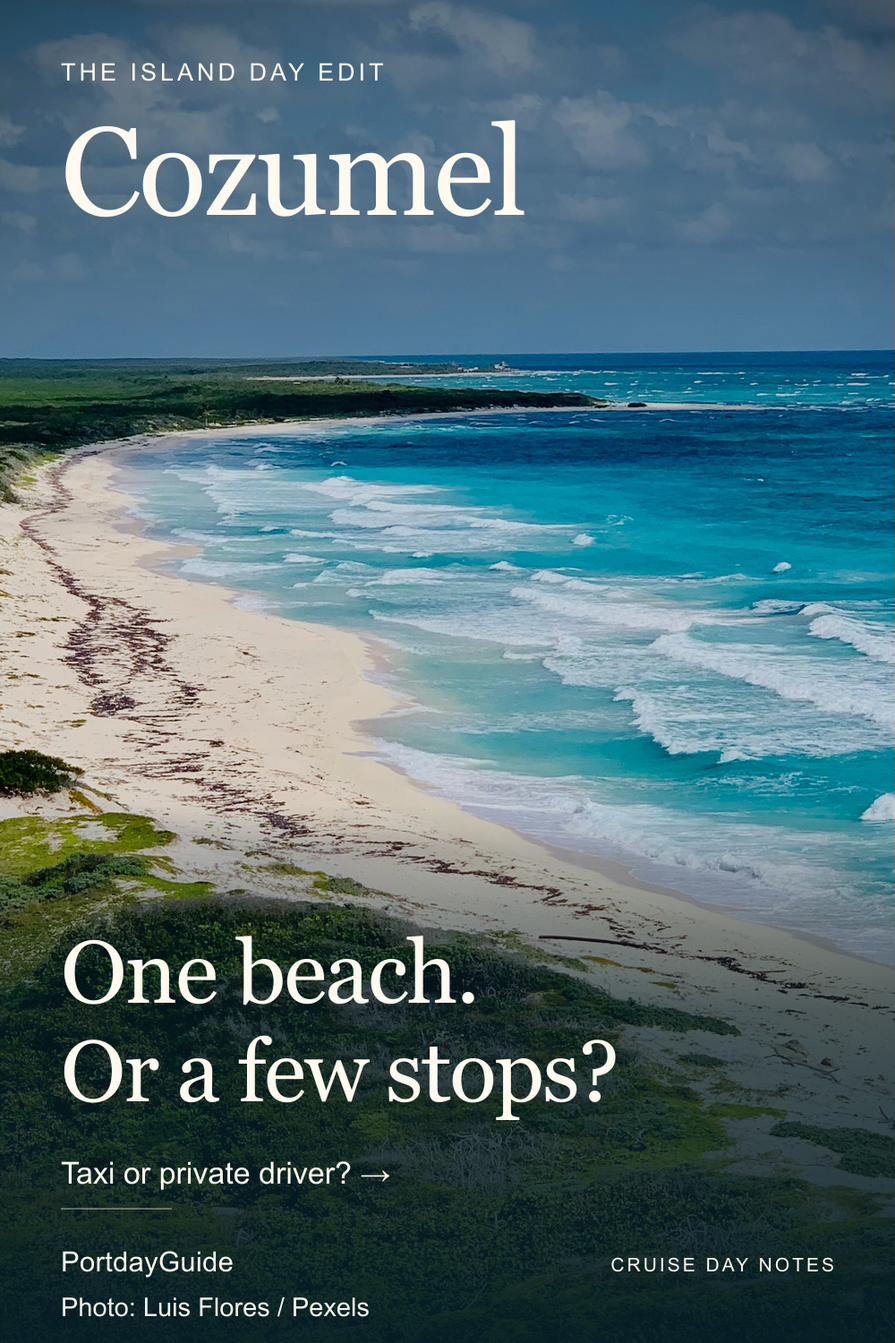
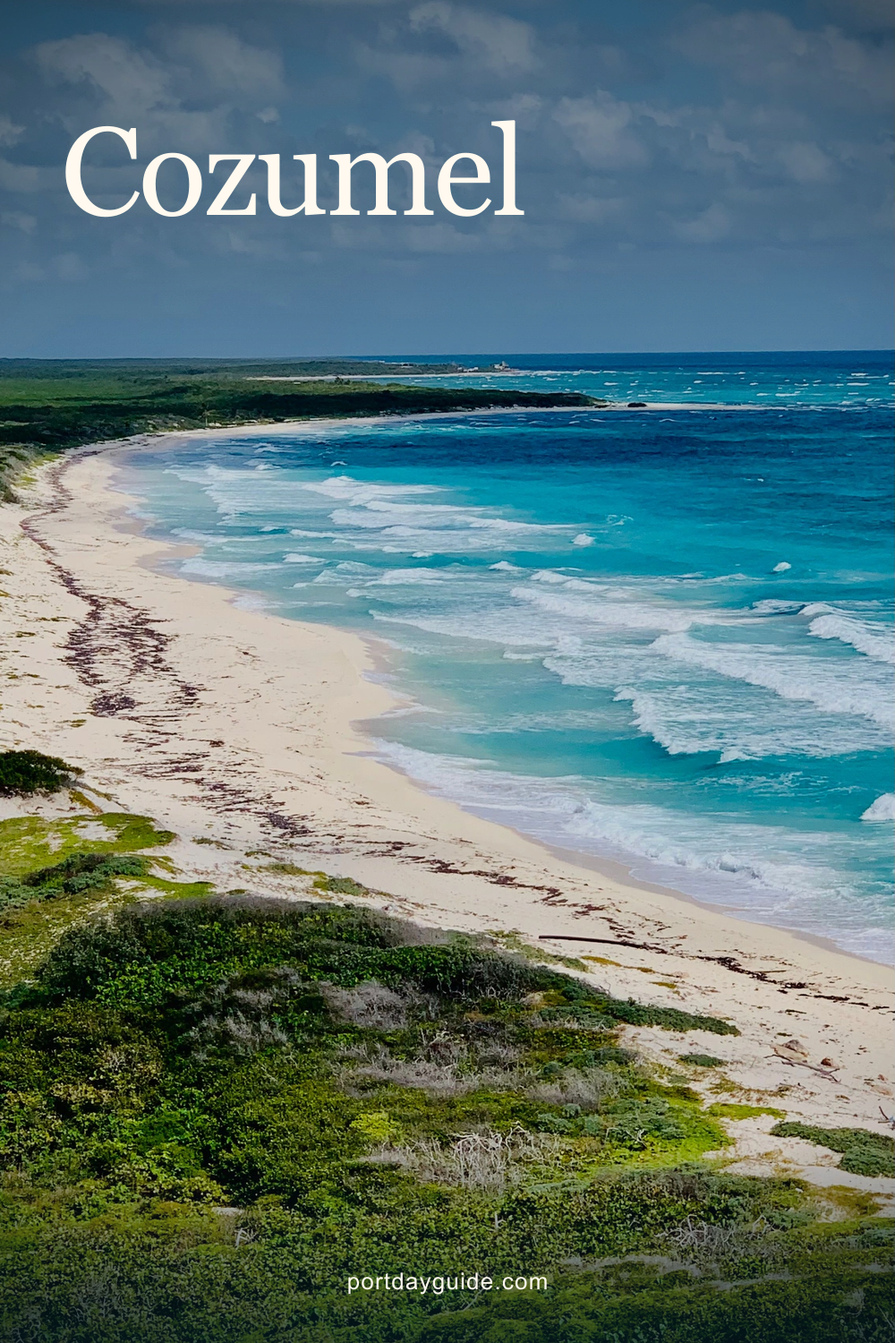
Simplify Pinterest images to place names and small website marks

diff --git a/docs/pinterest-batches/2026-10-31/copy-and-sources.md b/docs/pinterest-batches/2026-10-31/copy-and-sources.md
@@ -1,22 +1,22 @@
 # Exact publishing copy and image rights
 
-Six revised scenic drafts, November 1, 2026. No actual Pin URL or publication date exists. Use the original 1000 x 1500 PNGs, not the contact-sheet thumbnails. Full-bleed real photographs, short editorial headlines and transparent gradients replace the earlier card layouts.
+Six revised scenic drafts, November 1, 2026. No actual Pin URL or publication date exists. Use the original 1000 x 1500 PNGs, not the contact-sheet thumbnails. Each finished image contains only the accurate place name and a small portdayguide.com mark. Useful hooks and photographer attribution appear in the publishing copy below.
 
 ## 01 — Cozumel beach pass booked: does it include your taxi?
 
-![Thatched beach umbrella, loungers and turquoise sea at Nachi Cocom, Cozumel. Text: Cozumel, the beach day edit. Beach pass booked. Taxi included? Plan the full cost. Photo by The Travel Nook.](assets/cozumel-beach-pass-transport-v1.png)
+![Thatched beach umbrella, loungers and turquoise sea at Nachi Cocom, Cozumel. The only overlaid words are "Cozumel" and a smaller "portdayguide.com".](assets/cozumel-beach-pass-transport-v1.png)
 
 - **ID:** `cozumel-beach-pass-transport-v1`
 - **Board:** [Cruise Port Guides & Tips](https://www.pinterest.com/portdayguide/cruise-port-guides-tips/)
 - **Destination:** [Open the relevant guide](https://portdayguide.com/ports/cozumel/taxi-rates?utm_source=pinterest&utm_medium=organic_social&utm_campaign=portdayguide_guides&utm_content=cozumel-beach-pass-transport-v1#cozumel-fare-references)
 - **Title:** Cozumel beach pass booked: does it include your taxi?
-- **Description:** Your Cozumel beach pass may leave two taxi rides to arrange. Check outward and return transport before adding admission, then compare your own quotes in the free group-cost calculator. No live fare or savings guarantee. Photo: The Travel Nook / Unsplash, Nachi Cocom beach (2018), cropped with type; scenery is not a promise of current pass inclusions. Guide includes affiliate booking links.
-- **Alt text:** Thatched beach umbrella, loungers and turquoise sea at Nachi Cocom, Cozumel. Text: Cozumel, the beach day edit. Beach pass booked. Taxi included? Plan the full cost. Photo by The Travel Nook.
+- **Description:** Beach pass booked: taxi included? Check admission and both taxi rides, then compare your own quotes in the Cozumel group-cost tool. No live fares. Photo: The Travel Nook / Unsplash (2018). Source: https://unsplash.com/photos/2FoqQ0EPwLg License: https://unsplash.com/license Cropped; gradients and type added. Guide includes affiliate links.
+- **Alt text:** Thatched beach umbrella, loungers and turquoise sea at Nachi Cocom, Cozumel. The only overlaid words are "Cozumel" and a smaller "portdayguide.com".
 - **Decision:** Avoid buying admission while overlooking two separate taxi rides.
 - **Landing-page support:** components/CozumelTaxiArticle.tsx: beach-pass exclusions and separate return quote, followed by the group-cost tool.
 - **Release order:** 2; held for review.
 
-Photo: **The Travel Nook**, [Nachi Cocom beach, Cozumel](https://unsplash.com/photos/2FoqQ0EPwLg), [Unsplash License](https://unsplash.com/license). Source-page date: 2018-05-25; not a current-conditions promise. Source/license verified 2026-11-01. The source page identifies the photographer and destination and labels the image free under the linked license. Both platform licenses permit free commercial use and modification; courtesy credit is retained. No endorsement is implied.
+Photo: **The Travel Nook**, [Nachi Cocom beach, Cozumel](https://unsplash.com/photos/2FoqQ0EPwLg), [Unsplash License](https://unsplash.com/license). Source-page date: 2018-05-25; not a current-conditions promise. Source/license verified 2026-11-01. The source page identifies the photographer and destination and labels the image free under the linked license. Both platform licenses permit free commercial use and modification and do not require on-image credit. Courtesy attribution, source/license URLs and the modification notice are retained in each publishing description. No endorsement is implied.
 
[1 lines of base64/hex data omitted]
 
@@ -26,19 +26,19 @@ Local input: [cozumel_beach](sources/cozumel_beach.webp), 3000 x 2250, SHA-256 `
 
 ## 02 — Cozumel taxi or private driver? Compare the same day
 
-![Sweeping Cozumel coastline with pale sand, blue water and green coastal vegetation. Text: Cozumel. One beach. Or a few stops? Taxi or private driver? Photo by Luis Flores.](assets/cozumel-driver-inclusions-v1.png)
+![Sweeping Cozumel coastline with pale sand, blue water and green coastal vegetation. The only overlaid words are "Cozumel" and a smaller "portdayguide.com".](assets/cozumel-driver-inclusions-v1.png)
 
 - **ID:** `cozumel-driver-inclusions-v1`
 - **Board:** [Cruise Port Guides & Tips](https://www.pinterest.com/portdayguide/cruise-port-guides-tips/)
 - **Destination:** [Open the relevant guide](https://portdayguide.com/ports/cozumel/taxi-rates?utm_source=pinterest&utm_medium=organic_social&utm_campaign=portdayguide_guides&utm_content=cozumel-driver-inclusions-v1#transport-budget-title)
 - **Title:** Cozumel taxi or private driver? Compare the same day
-- **Description:** One beach or several Cozumel stops? Compare two taxi rides with reserved driver time for the same party and route. Check included hours, waiting, admissions and the return, then enter complete quotes in the free calculator. No live fare or savings guarantee. Coastal photo: Luis Flores / Pexels (2023), cropped with type. Guide includes affiliate booking links.
-- **Alt text:** Sweeping Cozumel coastline with pale sand, blue water and green coastal vegetation. Text: Cozumel. One beach. Or a few stops? Taxi or private driver? Photo by Luis Flores.
+- **Description:** One beach or several stops? Compare two Cozumel taxi rides with reserved driver hours for the same party and route. Check waiting, admissions and the return. Photo: Luis Flores / Pexels (2023). Source: https://www.pexels.com/photo/beach-by-caribbean-sea-16846471/ License: https://www.pexels.com/license/ Cropped; gradients and type added. Guide includes affiliate links.
+- **Alt text:** Sweeping Cozumel coastline with pale sand, blue water and green coastal vegetation. The only overlaid words are "Cozumel" and a smaller "portdayguide.com".
 - **Decision:** Distinguish point-to-point rides from a block of driver time before comparing totals.
 - **Landing-page support:** components/CozumelTaxiArticle.tsx: one destination, several stops, quote inclusions; components/CozumelTransportBudget.tsx.
 - **Release order:** 5; held for review.
 
-Photo: **Luis Flores**, [San Miguel de Cozumel, Q.R., Mexico](https://www.pexels.com/photo/beach-by-caribbean-sea-16846471/), [Pexels License](https://www.pexels.com/license/). Source-page date: 2023-05-16; not a current-conditions promise. Source/license verified 2026-11-01. The source page identifies the photographer and destination and labels the image free under the linked license. Both platform licenses permit free commercial use and modification; courtesy credit is retained. No endorsement is implied.
+Photo: **Luis Flores**, [San Miguel de Cozumel, Q.R., Mexico](https://www.pexels.com/photo/beach-by-caribbean-sea-16846471/), [Pexels License](https://www.pexels.com/license/). Source-page date: 2023-05-16; not a current-conditions promise. Source/license verified 2026-11-01. The source page identifies the photographer and destination and labels the image free under the linked license. Both platform licenses permit free commercial use and modification and do not require on-image credit. Courtesy attribution, source/license URLs and the modification notice are retained in each publishing description. No endorsement is implied.
 
[1 lines of base64/hex data omitted]
 
@@ -48,19 +48,19 @@ Local input: [cozumel_aerial](sources/cozumel_aerial.webp), 1688 x 3000, SHA-256
 
 ## 03 — Costa Maya port or Mahahual? Choose your cruise-day setting
 
-![Overhead view of Mahahual with shallow green-blue water, beach and waterfront buildings. Text: Beyond Costa Maya. Mahahual? Stay by the ship or head to town? Compare your beach day. Photo by Steve Matthews.](assets/costa-maya-port-or-town-v1.png)
+![Overhead view of Mahahual with shallow green-blue water, beach and waterfront buildings. The only overlaid words are "Mahahual" and a smaller "portdayguide.com".](assets/costa-maya-port-or-town-v1.png)
 
 - **ID:** `costa-maya-port-or-town-v1`
 - **Board:** [Cruise Port Guides & Tips](https://www.pinterest.com/portdayguide/cruise-port-guides-tips/)
 - **Destination:** [Open the relevant guide](https://portdayguide.com/ports/costa-maya/port-vs-mahahual?utm_source=pinterest&utm_medium=organic_social&utm_campaign=portdayguide_guides&utm_content=costa-maya-port-or-town-v1#quick-answer-title)
 - **Title:** Costa Maya port or Mahahual? Choose your cruise-day setting
-- **Description:** A Costa Maya cruise day can mean staying in the port complex or taking a taxi to the beachfront town of Mahahual. Compare the atmosphere, mobility needs, weather fallback and transport each way before choosing. Photo shows Mahahual, not the port complex: Steve Matthews / Unsplash (2026), cropped with type. Guide includes affiliate booking links.
-- **Alt text:** Overhead view of Mahahual with shallow green-blue water, beach and waterfront buildings. Text: Beyond Costa Maya. Mahahual? Stay by the ship or head to town? Compare your beach day. Photo by Steve Matthews.
+- **Description:** Stay in Costa Maya port or take a taxi to Mahahual? Compare atmosphere, mobility and transport each way. This aerial photo shows the beachfront town of Mahahual. Photo: Steve Matthews / Unsplash (2026). Source: https://unsplash.com/photos/WxlfTD4vTwU License: https://unsplash.com/license Cropped; gradients and type added. Guide includes affiliate links.
+- **Alt text:** Overhead view of Mahahual with shallow green-blue water, beach and waterfront buildings. The only overlaid words are "Mahahual" and a smaller "portdayguide.com".
 - **Decision:** Compare staying in the port complex with a taxi trip to the beachfront town shown in the photograph.
 - **Landing-page support:** lib/port-intent-guides.ts: port-vs-mahahual quick answer, traveler types and side-by-side comparison.
 - **Release order:** 1; held for review.
 
-Photo: **Steve Matthews**, [Costa Maya, Mahahual, Quintana Roo, Mexico](https://unsplash.com/photos/WxlfTD4vTwU), [Unsplash License](https://unsplash.com/license). Source-page date: 2026-08-20; not a current-conditions promise. Source/license verified 2026-11-01. The source page identifies the photographer and destination and labels the image free under the linked license. Both platform licenses permit free commercial use and modification; courtesy credit is retained. No endorsement is implied.
+Photo: **Steve Matthews**, [Costa Maya, Mahahual, Quintana Roo, Mexico](https://unsplash.com/photos/WxlfTD4vTwU), [Unsplash License](https://unsplash.com/license). Source-page date: 2026-08-20; not a current-conditions promise. Source/license verified 2026-11-01. The source page identifies the photographer and destination and labels the image free under the linked license. Both platform licenses permit free commercial use and modification and do not require on-image credit. Courtesy attribution, source/license URLs and the modification notice are retained in each publishing description. No endorsement is implied.
 
[1 lines of base64/hex data omitted]
 
@@ -70,19 +70,19 @@ Local input: [mahahual_aerial](sources/mahahual_aerial.webp), 3000 x 1688, SHA-2
 
 ## 04 — Mahahual beach day from Costa Maya: plan your return first
 
-![Clear shallow water and a palm-lined beach in Mahahual. Text: Costa Maya, a day ashore. Mahahual. Leave time to get back. Plan your port-day timing. Photo by Leafar Perez.](assets/costa-maya-return-budget-v1.png)
+![Clear shallow water and a palm-lined beach in Mahahual. The only overlaid words are "Mahahual" and a smaller "portdayguide.com".](assets/costa-maya-return-budget-v1.png)
 
 - **ID:** `costa-maya-return-budget-v1`
 - **Board:** [Cruise Port Guides & Tips](https://www.pinterest.com/portdayguide/cruise-port-guides-tips/)
 - **Destination:** [Open the relevant guide](https://portdayguide.com/ports/costa-maya/port-vs-mahahual?utm_source=pinterest&utm_medium=organic_social&utm_campaign=portdayguide_guides&utm_content=costa-maya-return-budget-v1#quick-answer-title)
 - **Title:** Mahahual beach day from Costa Maya: plan your return first
-- **Description:** Before your Mahahual beach day from Costa Maya, allow for the pier walk and return journey. Budget both taxi rides and any beach minimum spend or day pass, then set a leave-the-beach alarm. Use the comparison guide to decide whether this day fits your time ashore. Beach photo: Leafar Perez / Unsplash (2020), cropped with type; conditions vary. Guide includes affiliate booking links.
-- **Alt text:** Clear shallow water and a palm-lined beach in Mahahual. Text: Costa Maya, a day ashore. Mahahual. Leave time to get back. Plan your port-day timing. Photo by Leafar Perez.
+- **Description:** A Mahahual beach day from Costa Maya? Allow for the pier walk and return journey, budget both taxi rides and beach costs, then set a leave-the-beach alarm. Photo: Leafar Perez / Unsplash (2020). Source: https://unsplash.com/photos/1iFNLNoa9gQ License: https://unsplash.com/license Cropped; gradients and type added. Guide includes affiliate links.
+- **Alt text:** Clear shallow water and a palm-lined beach in Mahahual. The only overlaid words are "Mahahual" and a smaller "portdayguide.com".
 - **Decision:** Time and full-cost readiness before leaving port, rather than a general beach recommendation.
 - **Landing-page support:** lib/port-intent-guides.ts: port-vs-mahahual steps Check the usable window, Price the full choice, Protect the return.
 - **Release order:** 4; held for review.
 
-Photo: **Leafar Perez**, [Mahahual beach; Calle Malecon, Mexico](https://unsplash.com/photos/1iFNLNoa9gQ), [Unsplash License](https://unsplash.com/license). Source-page date: 2020-06-30; not a current-conditions promise. Source/license verified 2026-11-01. The source page identifies the photographer and destination and labels the image free under the linked license. Both platform licenses permit free commercial use and modification; courtesy credit is retained. No endorsement is implied.
+Photo: **Leafar Perez**, [Mahahual beach; Calle Malecon, Mexico](https://unsplash.com/photos/1iFNLNoa9gQ), [Unsplash License](https://unsplash.com/license). Source-page date: 2020-06-30; not a current-conditions promise. Source/license verified 2026-11-01. The source page identifies the photographer and destination and labels the image free under the linked license. Both platform licenses permit free commercial use and modification and do not require on-image credit. Courtesy attribution, source/license URLs and the modification notice are retained in each publishing description. No endorsement is implied.
 
[1 lines of base64/hex data omitted]
 
@@ -92,19 +92,19 @@ Local input: [mahahual_palms](sources/mahahual_palms.webp), 3000 x 2250, SHA-256
 
 ## 05 — Tokyo to Yokohama cruise port: which of the three terminals?
 
-![Yokohama skyline at sunset, including the Landmark Tower and colorful Ferris wheel, shown as city scenery. Text: From Tokyo to your cruise. Yokohama. Three terminals. Which is yours? Check before you travel. Photo by Sebastian Schuster.](assets/yokohama-name-your-terminal-v1.png)
+![Yokohama skyline at sunset, including the Landmark Tower and colorful Ferris wheel. The only overlaid words are "Yokohama" and a smaller "portdayguide.com".](assets/yokohama-name-your-terminal-v1.png)
 
 - **ID:** `yokohama-name-your-terminal-v1`
 - **Board:** [Cruise Port Guides & Tips](https://www.pinterest.com/portdayguide/cruise-port-guides-tips/)
 - **Destination:** [Open the relevant guide](https://portdayguide.com/ports/yokohama-tokyo/tokyo-to-yokohama-cruise-terminal?utm_source=pinterest&utm_medium=organic_social&utm_campaign=portdayguide_guides&utm_content=yokohama-name-your-terminal-v1#confirm-yokohama-terminal)
 - **Title:** Tokyo to Yokohama cruise port: which of the three terminals?
-- **Description:** Cruising from Yokohama after a stay in Tokyo? Confirm whether your documents name Osanbashi, Shinko or Daikoku before planning the final station, walk or vehicle connection. Open the terminal comparison and free departure checklist. Yokohama skyline: Sebastian Schuster / Unsplash (2025), cropped with type; city scenery is not a terminal entrance. Guide includes affiliate booking links.
-- **Alt text:** Yokohama skyline at sunset, including the Landmark Tower and colorful Ferris wheel, shown as city scenery. Text: From Tokyo to your cruise. Yokohama. Three terminals. Which is yours? Check before you travel. Photo by Sebastian Schuster.
+- **Description:** Osanbashi, Shinko or Daikoku? Confirm the terminal before your Tokyo-to-Yokohama cruise transfer: the final connection depends on it. Photo shows the city, not a terminal entrance. Photo: Sebastian Schuster / Unsplash (2025). Source: https://unsplash.com/photos/DBr7MB-nVnA License: https://unsplash.com/license Cropped; gradients and type added. Guide includes affiliate links.
+- **Alt text:** Yokohama skyline at sunset, including the Landmark Tower and colorful Ferris wheel. The only overlaid words are "Yokohama" and a smaller "portdayguide.com".
 - **Decision:** Prevent the wrong terminal choice before booking a Tokyo departure route.
 - **Landing-page support:** components/TokyoYokohamaTransferArticle.tsx: confirm-yokohama-terminal table and Daikoku connection guidance.
 - **Release order:** 3; held for review.
 
-Photo: **Sebastian Schuster**, [Yokohama, Kanagawa, Japan](https://unsplash.com/photos/DBr7MB-nVnA), [Unsplash License](https://unsplash.com/license). Source-page date: 2025-08-14; not a current-conditions promise. Source/license verified 2026-11-01. The source page identifies the photographer and destination and labels the image free under the linked license. Both platform licenses permit free commercial use and modification; courtesy credit is retained. No endorsement is implied.
+Photo: **Sebastian Schuster**, [Yokohama, Kanagawa, Japan](https://unsplash.com/photos/DBr7MB-nVnA), [Unsplash License](https://unsplash.com/license). Source-page date: 2025-08-14; not a current-conditions promise. Source/license verified 2026-11-01. The source page identifies the photographer and destination and labels the image free under the linked license. Both platform licenses permit free commercial use and modification and do not require on-image credit. Courtesy attribution, source/license URLs and the modification notice are retained in each publishing description. No endorsement is implied.
 
[1 lines of base64/hex data omitted]
 
@@ -114,19 +114,19 @@ Local input: [yokohama_sunset](sources/yokohama_sunset.webp), 2250 x 3000, SHA-2
 
 ## 06 — Tokyo hotel to Yokohama cruise: confirm seats and bags
 
-![Yokohama waterfront at night, with an illuminated Ferris wheel and blue and gold reflections. Text: Tokyo to Yokohama. Seats booked. Bags confirmed? Open the departure checklist. Photo by Sunil Poudel.](assets/tokyo-yokohama-seats-and-bags-v1.png)
+![Yokohama waterfront at night, with an illuminated Ferris wheel and blue and gold reflections. The only overlaid words are "Yokohama" and a smaller "portdayguide.com".](assets/tokyo-yokohama-seats-and-bags-v1.png)
 
 - **ID:** `tokyo-yokohama-seats-and-bags-v1`
 - **Board:** [Cruise Port Guides & Tips](https://www.pinterest.com/portdayguide/cruise-port-guides-tips/)
 - **Destination:** [Open the relevant guide](https://portdayguide.com/ports/yokohama-tokyo/tokyo-to-yokohama-cruise-terminal?utm_source=pinterest&utm_medium=organic_social&utm_campaign=portdayguide_guides&utm_content=tokyo-yokohama-seats-and-bags-v1#tokyo-transfer-checklist)
 - **Title:** Tokyo hotel to Yokohama cruise: confirm seats and bags
-- **Description:** Before your Tokyo hotel-to-Yokohama cruise transfer, confirm every traveler and suitcase, child or mobility needs, pickup, exact terminal and full price. Work backward from your cruise check-in window with the free six-item checklist. Yokohama waterfront: Sunil Poudel / Pexels (2020), cropped with type; scenery is not a pickup point. Guide includes affiliate booking links.
-- **Alt text:** Yokohama waterfront at night, with an illuminated Ferris wheel and blue and gold reflections. Text: Tokyo to Yokohama. Seats booked. Bags confirmed? Open the departure checklist. Photo by Sunil Poudel.
+- **Description:** Seats booked, bags confirmed? Plan your Tokyo hotel-to-Yokohama cruise transfer with the free departure checklist: people, luggage, pickup, terminal and check-in time. Waterfront scenery is not a pickup point. Photo: Sunil Poudel / Pexels (2020). Source: https://www.pexels.com/photo/night-view-of-yokohama-city-5615414/ License: https://www.pexels.com/license/ Cropped; gradients and type added. Guide includes affiliate links.
+- **Alt text:** Yokohama waterfront at night, with an illuminated Ferris wheel and blue and gold reflections. The only overlaid words are "Yokohama" and a smaller "portdayguide.com".
 - **Decision:** Vehicle capacity and departure readiness for a travel group with luggage.
 - **Landing-page support:** components/TokyoTransferChecklist.tsx: six checkable items, print and share controls; TokyoYokohamaTransferArticle luggage/cost/arrival sections.
 - **Release order:** 6; held for review.
 
-Photo: **Sunil Poudel**, [Yokohama, Japan](https://www.pexels.com/photo/night-view-of-yokohama-city-5615414/), [Pexels License](https://www.pexels.com/license/). Source-page date: 2020-10-16; not a current-conditions promise. Source/license verified 2026-11-01. The source page identifies the photographer and destination and labels the image free under the linked license. Both platform licenses permit free commercial use and modification; courtesy credit is retained. No endorsement is implied.
+Photo: **Sunil Poudel**, [Yokohama, Japan](https://www.pexels.com/photo/night-view-of-yokohama-city-5615414/), [Pexels License](https://www.pexels.com/license/). Source-page date: 2020-10-16; not a current-conditions promise. Source/license verified 2026-11-01. The source page identifies the photographer and destination and labels the image free under the linked license. Both platform licenses permit free commercial use and modification and do not require on-image credit. Courtesy attribution, source/license URLs and the modification notice are retained in each publishing description. No endorsement is implied.
 
[1 lines of base64/hex data omitted]
 
@@ -136,4 +136,4 @@ Local input: [yokohama_reflections](sources/yokohama_reflections.webp), 2400 x 3
 
 ## Reuse and publication
 
-Keep this record with the batch. Photographs retain their Pexels/Unsplash licenses; the previous draft's CC-licensed photos are no longer used by these six images. Do not carry the old share-alike attribution onto these replacement compositions. Before any eventual feed release, the existing publication owner must add the new photograph/source/license/crop records to the public rights directory and preserve visible author credit and attribution-bearing descriptions. The new source records are not yet deployed to the public site. The board, tracking IDs and canonical destinations remain unchanged. The CSV is publishing copy, not an automatic upload file. Custom alt text import through RSS is not established; use an authorized existing-Pin accessibility field if supported.
+Keep this record with the batch. Photographs retain their Pexels/Unsplash licenses; the previous draft's CC-licensed photos are no longer used by these six images. Do not carry the old share-alike attribution onto these replacement compositions. Before any eventual feed release, the existing publication owner must add the new photograph/source/license/crop records to the public rights directory and preserve the complete attribution-bearing descriptions. The new source records are not yet deployed to the public site. The board, tracking IDs and canonical destinations remain unchanged. The CSV is publishing copy, not an automatic upload file. Custom alt text import through RSS is not established; use an authorized existing-Pin accessibility field if supported.

diff --git a/docs/pinterest-batches/2026-10-31/README.md b/docs/pinterest-batches/2026-10-31/README.md
@@ -6,9 +6,9 @@
 
 ## November 1 visual revision
 
-Recomposed the same six draft identities after the owner requested a more Instagram-style travel editorial look. Six different real photographs fill the frame: Cozumel beach and sweeping coast, Mahahual from above and at water level, Yokohama sunset and illuminated waterfront reflections. Short Georgia headlines, restrained branding and transparent gradients replace the former large blocks and checklist-like body copy. No scenery was generated, replaced or retouched.
+Recomposed the same six draft identities after the owner requested a more Instagram-style travel editorial look. Six different real photographs fill the frame: Cozumel beach and sweeping coast, Mahahual from above and at water level, Yokohama sunset and illuminated waterfront reflections. The latest owner direction removes all promotional overlay copy and on-image credits. Each image contains exactly the accurate place name (Cozumel, Mahahual or Yokohama) in Georgia and a much smaller portdayguide.com mark. The six photographs and their distinct views are retained, with only localized transparent gradients for legibility. No scenery was generated, replaced or retouched.
 
-New photo selection required new source files because the original taxi/terminal/promenade images did not deliver the requested scenic appeal. [Photo source register](photo-sources.json) records the verified primary source pages, photographer, location, platform license, download URL and download checksum. The six local WebP inputs are in the sources directory; these are draft inputs, not a stock photo collection or a claim that these new sources already appear in the site's public rights register. Source and license pages were checked November 1, 2026.
+New photo selection required new source files because the original taxi/terminal/promenade images did not deliver the requested scenic appeal. [Photo source register](photo-sources.json) records the verified primary source pages, photographer, location, platform license, download URL and download checksum. The six local WebP inputs are in the sources directory; these are draft inputs, not a stock photo collection or a claim that these new sources already appear in the site's public rights register. Source and license pages were checked November 1, 2026. The [Unsplash License](https://unsplash.com/license) and [Pexels License](https://www.pexels.com/license/) do not require on-image attribution. Each final publishing description retains the photographer, source URL, license URL and a crop/gradient/type modification notice; no photo replacement was necessary.
 
 The revisions do not constitute approval to publish. PR #45 stays draft. Existing six IDs, destination parameters, anchors, proposed order and null actual publication fields are retained. All live files and operating schedules remain unchanged.
 
@@ -35,7 +35,7 @@ Prepared against main `91aa1d7de0a81d4bff0f0a29bc9f3c59f9ca2a9c`. Read the curre
 - [CSV](publishing-copy.csv): review/publishing reference, **not** an automatic Pinterest bulk-upload specification.
 - [Manifest](manifest.json): full destinations, image and source SHA-256 hashes, dimensions, credit/license records, publication order and null actual publication fields.
 - [Editable brief](pins.json) and [renderer](render.mjs): deterministic native layouts extending the approach used by `scripts/generate-share-cards.mjs`. Verified real photographs are resized/cropped without generative retouching or scene replacement. The renderer uses locally available Georgia and Arial; fonts are not redistributed. No new image service or credentials.
-- `assets/`: six full-size PNGs. `contact-sheet.png`: all six at 300 pixels wide, with large headlines and practical CTAs checked for readability.
+- `assets/`: six full-size PNGs. `contact-sheet.png`: all six at 300 pixels wide, with only place names and small website marks. The contact sheet also has no additional labels or headings.
 
 Rebuild locally with installed repository dependencies:
 
@@ -43,7 +43,7 @@ Rebuild locally with installed repository dependencies:
 node docs/pinterest-batches/2026-10-31/render.mjs
 ```
 
-The renderer writes only this draft directory. It rejects duplicate live IDs, overlong copy and photo enlargement, decodes every resulting PNG in full, and writes hashes. The headline, CTA, selected photograph and decision differ between each page's variants. All six were visually inspected at 1000 x 1500 and in the 300-pixel contact sheet. The final contrast pass strengthens only the transparent text overlays; scene pixels remain otherwise unchanged. Author credits remain legible at full size and present in the mobile preview. Asset validation checks full decodes and hashes, six distinct photos/IDs/UTMs, three pages with two angles, unchanged destinations against the earlier draft and a byte-stable eight-item feed. Every factual promise is supported by the destination implementation identified in `pins.json`. No live fare, savings, selected-date availability, first-hand visit or return guarantee is promised.
+The renderer writes only this draft directory. It rejects duplicate live IDs, overlong copy and photo enlargement, decodes every resulting PNG in full, and writes hashes. The two variants per page use different photographs and practical angles in their titles/descriptions. Hooks, instructions and credits appear only in the publishing copy. All six were visually inspected at 1000 x 1500 and in the 300-pixel contact sheet. The large lower text gradients were removed to reveal the scenery; only subtle place-name/footer gradients remain. Place labels are 126-140 px and the website is 26 px. All six final images contain exactly two typeset text elements. Credits and source/license links are checked in the captions, not the image pixels. Asset validation checks full decodes and hashes, six distinct photos/IDs/UTMs, three pages with two angles, unchanged destinations against the earlier draft and a byte-stable eight-item feed. Every factual promise is supported by the destination implementation identified in `pins.json`. No live fare, savings, selected-date availability, first-hand visit or return guarantee is promised.
 
 ## Publication proposal — held for coordinator review
 
@@ -64,7 +64,7 @@ For each cleared slot, the existing acquisition owner must:
 
 1. Re-read main, open PRs and current ownership. Check the ledger, RSS and actual Pinterest evidence for this immutable ID/image/title/destination. A pending or uncertain prior import is not permission to upload it again.
 2. Copy **only that Pin** to `/public/media/share/<id>.png`. Add one item to the existing editorial feed list using the exact title, description, path and anchor in `pins.json`, `imagePath: /media/share/<id>.png`, and a factual first-feed-publication timestamp. Retain all earlier entries and dates. Never install this draft manifest as the live feed or add all six at once. No new feed, board or task is necessary.
-3. Preserve the full source/license/change information in the public rights record, using the new Pexels/Unsplash source records for this revision. Keep the Pin's visible author names and attribution-bearing description. Native RSS maps title/description/image; it does not establish that custom alt text is imported. Use the supplied alt text only through a supported existing-Pin accessibility field, if available, without recreating the Pin.
+3. Preserve the full source/license/change information in the public rights record, using the new Pexels/Unsplash source records for this revision. Keep the complete attribution-bearing description, including photographer, source/license links and modification notice. Do not restore extra words or credits onto the image. Native RSS maps title/description/image; it does not establish that custom alt text is imported. Use the supplied alt text only through a supported existing-Pin accessibility field, if available, without recreating the Pin.
 4. Apply ordinary scoped PR, CI/preview and production checks once per substantive publication. Keep old feed entries byte-stable. Confirm the intended production image, URL, anchor, canonical and source parameters via GET; do not navigate sponsored links or POST test analytics.
 5. Record feed deployment separately from the observed Pin ID, URL, board and actual publication timestamp. Pinterest says RSS imports may take up to 24 hours. If import remains unverified, keep it pending and pause further expansion; do not reset the GUID/date or add a manual duplicate. Verify `Visit site`'s destination by reading its href, without creating a test affiliate click.
 
